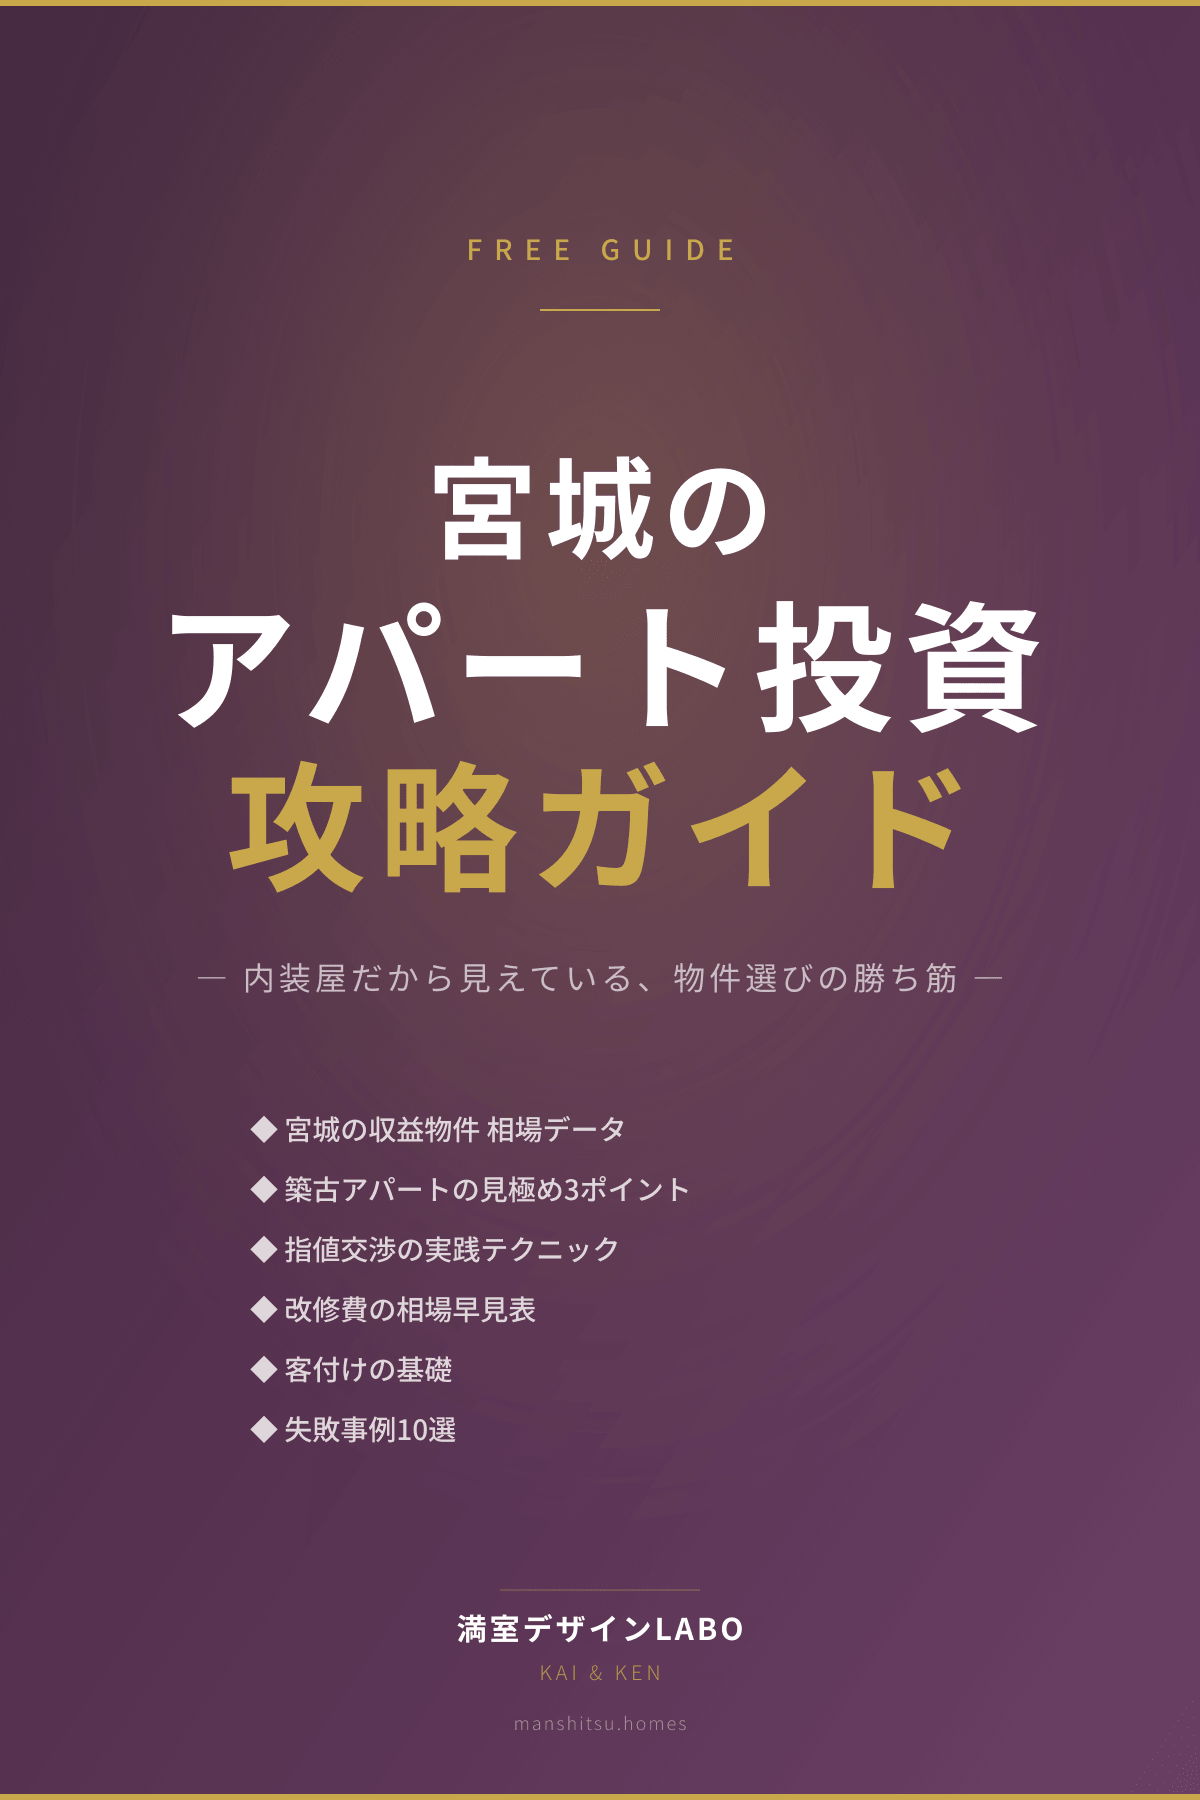
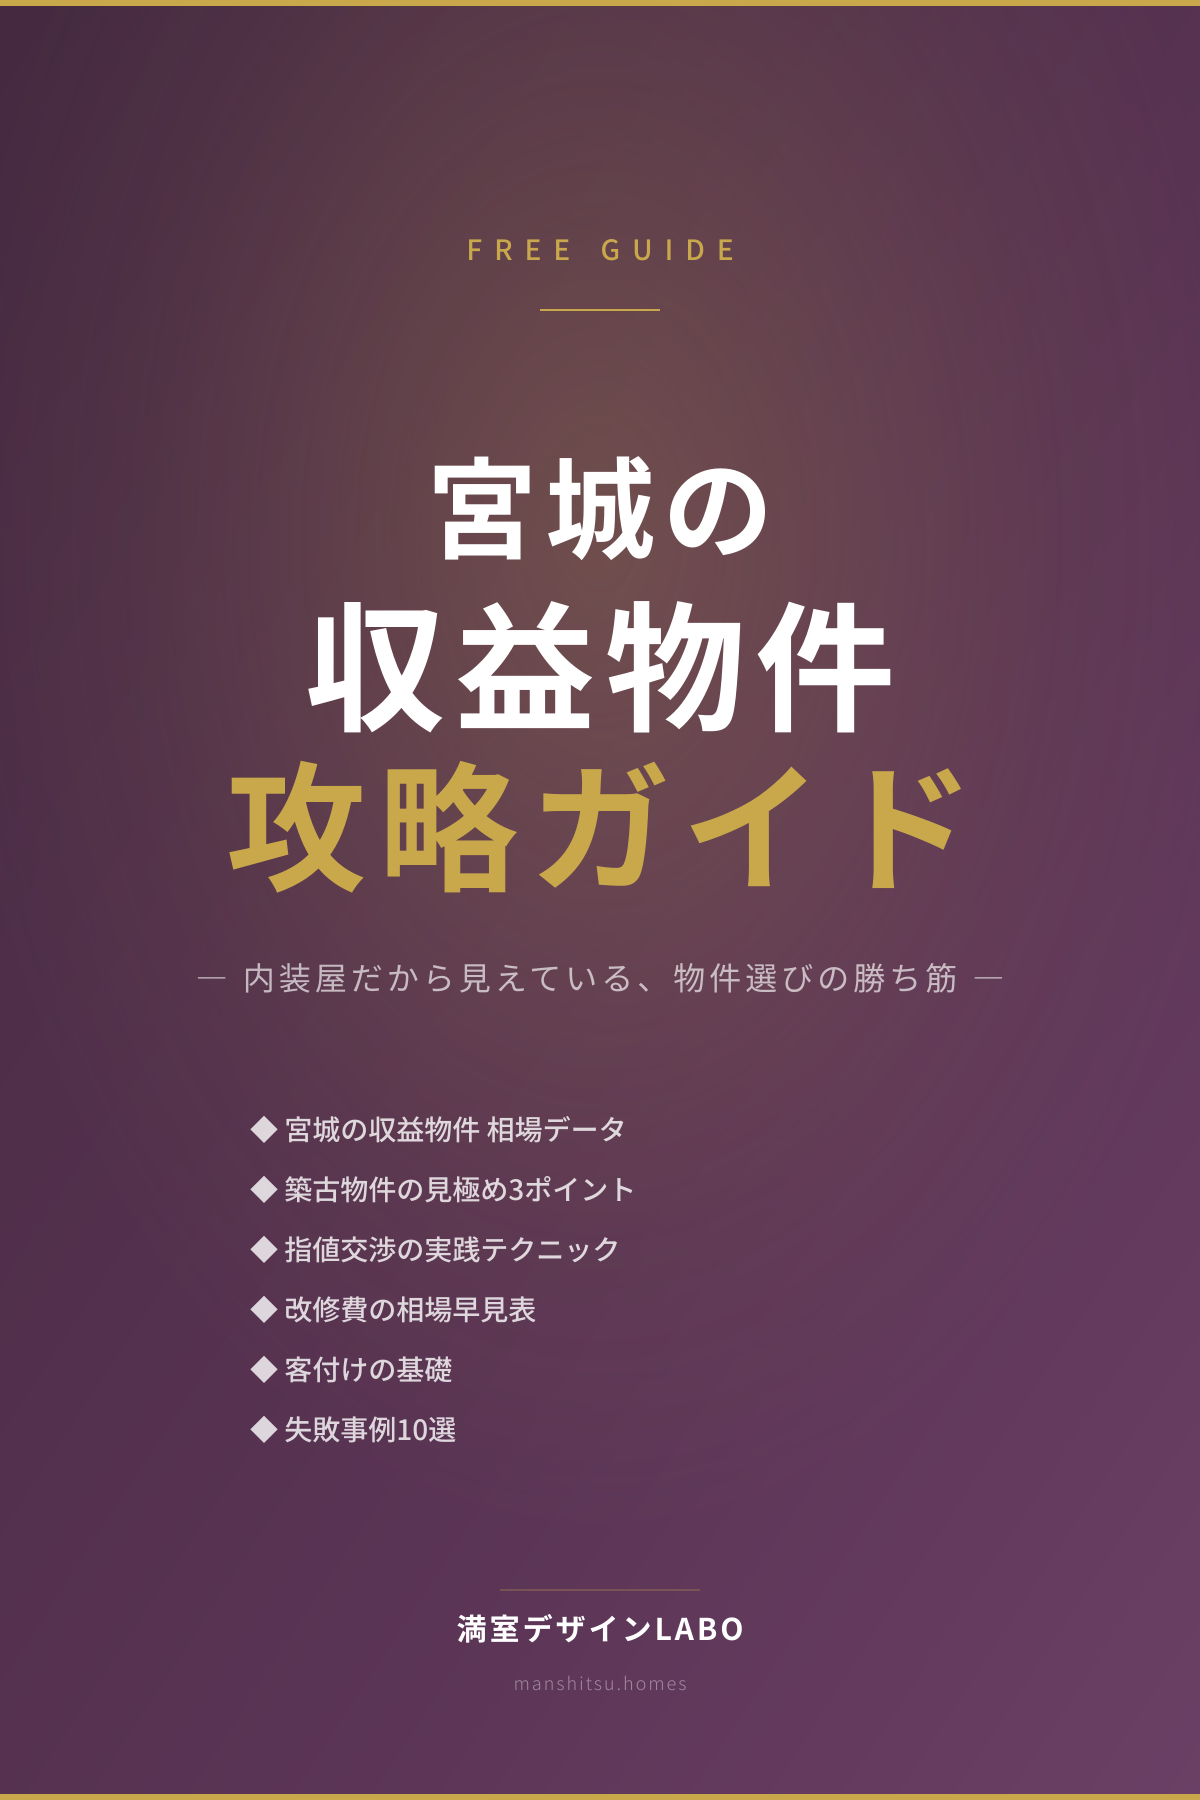
feat(guide): 収益物件ブランドへ主軸移行＋付録C「戸建・DIY使い分け」追加
- タイトル/目次/Ch見出しを「アパート投資→収益物件」で統一
- 付録C新設：戸建固有論点とDIY/プロの境界線（C-1〜C-4）
- FAQ（付録D）に DIY対応Q&A追加、戸建Q&A を主軸化に合わせ書き直し
- Ch.4事例4：大崎市築古戸建・DIY併用ケース追加
- 表紙/閉じから KAI & KEN 削除（LINE運用の伊藤名と整合）
- guide-cover.svg/png も同期
- マニュスクリプト（docs/guide-bukken-manuscript.md）も同期、v1.1

Changed region(s): [[0.1233, 0.3111, 0.8633, 0.4044], [0.2775, 0.6533, 0.5242, 0.6844], [0.4317, 0.9333, 0.4933, 0.9644]]

diff --git a/src/pages/GuidePage.tsx b/src/pages/GuidePage.tsx
@@ -6,7 +6,8 @@ import { JsonLd, breadcrumbSchema, faqSchema } from "../utils/jsonLd";
 const guideFaqs = [
   { q: "このガイドは本当に無料ですか？", a: "はい、完全無料です。弊社の本業は内装工事で、物件改修をご依頼いただいた段階で対価をいただきます。物件選びの段階で費用を請求することはありません。" },
   { q: "宮城県外でも参考になりますか？", a: "相場の数字は宮城県のものですが、築古物件の見極め方・指値交渉・改修費の考え方・客付け力チェックなどの方法論は地域を問わず使えます。福島・山形・岩手の近県の方からもご相談いただいています。" },
-  { q: "戸建投資にも使えますか？", a: "ガイド本体はアパート1棟投資が主軸ですが、物件選びの考え方の大半は戸建投資にも応用できます。戸建固有の論点（再販戦略・小規模融資・ファミリー客付けなど）は別記事で詳しく解説しています。" },
+  { q: "戸建投資にも使えますか？", a: "はい、むしろ戸建は私たちの主軸の一つです。一棟アパート／区分／築古戸建すべてで「物件探しから内装屋の目で見極める」という関わり方は同じです。戸建固有の論点（小規模融資・ファミリー客付け・実需出口）は付録Cと別記事で解説しています。" },
+  { q: "DIYで自分で改修したい部分があるのですが対応できますか？", a: "歓迎します。私たちは「全部任せてください」派ではなく、「ここだけプロに」という頼み方を推奨しています。水回り・電気・屋根外壁・構造など事故リスクが高い領域だけ弊社で請け、クロス・塗装・造作などDIY可能な領域はご自身で進めていただく形が、実は一番コストが下がって利回りも出やすいです。詳しくは付録Cをご覧ください。" },
   { q: "不動産投資の初心者ですが、理解できますか？", a: "業界用語は付録Bの用語集で解説しています。初学者でも読める難度で書いていますが、検索意図と検索意味の違いなど、初心者本では触れない実務知識も含んでいるため、初級〜中級者の橋渡しになります。" },
   { q: "他の不動産投資本との違いは何ですか？", a: "多くの投資本は仲介業や投資コンサルが書いており、物件売買で利益を出す立場の視点です。本ガイドは内装工事会社が物件売買では儲けない立場で書いているため、買わない方が良い物件・避けるべき業者についても率直に書いています。" },
   { q: "個別相談はできますか？", a: "LINE公式アカウント（@074uzmls）で個別相談を承っています。検討中の物件URLや写真を送っていただければ、客付け力チェック・改修費概算・実質利回りベースのレビューを無料でお返しします。" },
@@ -15,7 +16,7 @@ const guideFaqs = [
 const guideSchema = {
   "@context": "https://schema.org",
   "@type": "Article",
-  headline: "宮城のアパート投資 攻略ガイド",
+  headline: "宮城の収益物件 攻略ガイド",
   description: "宮城県の収益物件・中古アパート投資の攻略ガイド。相場データ・築古見極め3ポイント・指値交渉術・改修費単価・失敗事例10選まで内装屋視点で体系化。",
   image: "https://manshitsu.homes/images/hero-bg.webp",
   datePublished: "2026-04-17",
@@ -30,7 +31,7 @@ const guideSchema = {
 };
 
 /**
- * 宮城のアパート投資 攻略ガイド HTML版
+ * 宮城の収益物件 攻略ガイド HTML版
  *
  * 原稿: docs/guide-bukken-manuscript.md
  * 配布: /guide/bukken
@@ -38,7 +39,7 @@ const guideSchema = {
  */
 export default function GuidePage() {
   useEffect(() => {
-    document.title = "宮城のアパート投資 攻略ガイド｜満室デザインLABO";
+    document.title = "宮城の収益物件 攻略ガイド｜満室デザインLABO";
     const description = "宮城県の収益物件・中古アパート投資の攻略ガイド。相場データ・築古見極め3ポイント・指値交渉術・改修費単価・失敗事例10選まで内装屋視点で体系化。";
     const ogImage = "https://manshitsu.homes/images/og-guide.png";
 
@@ -49,10 +50,10 @@ export default function GuidePage() {
       const el = document.querySelector(selector);
       if (el) el.setAttribute("content", value);
     };
-    setMeta('meta[property="og:title"]', "宮城のアパート投資 攻略ガイド｜満室デザインLABO");
+    setMeta('meta[property="og:title"]', "宮城の収益物件 攻略ガイド｜満室デザインLABO");
     setMeta('meta[property="og:description"]', description);
     setMeta('meta[property="og:image"]', ogImage);
-    setMeta('meta[name="twitter:title"]', "宮城のアパート投資 攻略ガイド｜満室デザインLABO");
+    setMeta('meta[name="twitter:title"]', "宮城の収益物件 攻略ガイド｜満室デザインLABO");
     setMeta('meta[name="twitter:description"]', description);
     setMeta('meta[name="twitter:image"]', ogImage);
   }, []);
@@ -89,14 +90,14 @@ export default function GuidePage() {
         <hr className="cover-hr" />
         <h1 className="cover-title">
           <span className="cover-title-l1">宮城の</span>
-          <span className="cover-title-l2">アパート投資</span>
+          <span className="cover-title-l2">収益物件</span>
           <span className="cover-title-l3">攻略ガイド</span>
         </h1>
         <p className="cover-subtitle">— 内装屋だから見えている、物件選びの勝ち筋 —</p>
 
         <ul className="cover-chapters">
           <li>◆ 宮城の収益物件 相場データ</li>
-          <li>◆ 築古アパートの見極め3ポイント</li>
+          <li>◆ 築古物件の見極め3ポイント</li>
           <li>◆ 指値交渉の実践テクニック</li>
           <li>◆ 改修費の相場早見表</li>
           <li>◆ 客付けの基礎</li>
@@ -106,7 +107,6 @@ export default function GuidePage() {
         <div className="cover-footer">
           <hr className="cover-footer-hr" />
           <p className="cover-brand">満室デザインLABO</p>
-          <p className="cover-team">KAI &amp; KEN</p>
           <p className="cover-url">manshitsu.homes</p>
         </div>
         <div className="cover-accent-bottom" />
@@ -117,10 +117,10 @@ export default function GuidePage() {
         <div className="page-header"><span>CONTENTS</span></div>
         <h2 className="chapter-heading-toc">目次</h2>
         <ol className="toc-list">
-          <li><span className="toc-num">Ch.1</span><span>はじめに — なぜ今、宮城のアパート投資なのか</span></li>
+          <li><span className="toc-num">Ch.1</span><span>はじめに — なぜ今、宮城の収益物件投資なのか</span></li>
           <li><span className="toc-num">Ch.1-4</span><span>誰が書いているのか — 仲介業20年で気づいた構造の限界</span></li>
           <li><span className="toc-num">Ch.2</span><span>宮城の収益物件相場 — エリア別・築年別の実データ</span></li>
-          <li><span className="toc-num">Ch.3</span><span>築古アパートの見極め方 — 3つの必須チェック</span></li>
+          <li><span className="toc-num">Ch.3</span><span>築古物件の見極め方 — 3つの必須チェック</span></li>
           <li><span className="toc-num">Ch.4</span><span>指値交渉の実践テクニック — 想定問答と事例</span></li>
           <li><span className="toc-num">Ch.5</span><span>改修費の相場早見表 — 部屋タイプ別・単価公開</span></li>
           <li><span className="toc-num">Ch.6</span><span>客付けの基礎 — バーチャルステージング活用</span></li>
@@ -128,14 +128,15 @@ export default function GuidePage() {
           <li><span className="toc-num">Ch.8</span><span>まとめ — 次の1歩</span></li>
           <li><span className="toc-num">付録A</span><span>市町村別 平均利回りデータ</span></li>
           <li><span className="toc-num">付録B</span><span>用語集</span></li>
-          <li><span className="toc-num">付録C</span><span>よくある質問</span></li>
+          <li><span className="toc-num">付録C</span><span>戸建投資と"使い分け" — DIYとプロの境界線</span></li>
+          <li><span className="toc-num">付録D</span><span>よくある質問</span></li>
         </ol>
       </article>
 
       {/* ===== Ch.1 ===== */}
       <article className="page">
         <div className="page-header"><span>Ch.1 はじめに</span></div>
-        <h2 className="chapter-heading"><span className="chapter-no">Ch.1</span>はじめに — なぜ今、宮城のアパート投資なのか</h2>
+        <h2 className="chapter-heading"><span className="chapter-no">Ch.1</span>はじめに — なぜ今、宮城の収益物件投資なのか</h2>
 
         {/* Photo: hero */}
         <div className="photo-block">
@@ -148,7 +149,7 @@ export default function GuidePage() {
         <p>この立場から、次のことをお伝えしたい：</p>
         <blockquote className="quote">「物件選びで失敗すれば、どんなに良い内装をしても回らない」</blockquote>
         <p>これは、20年以上現場で見てきた実感です。どんなに塗装を綺麗にしても、立地が間違っていれば入居者は来ない。どんなに利回りが高い物件でも、躯体がダメなら改修費で利回りが消える。このガイドでは、<strong>物件を買う前に知っておくべきこと</strong>を、内装側から見た視点で体系化しました。</p>
-        <p style={{ fontSize: "0.9em", color: "#6a5a4a", marginTop: "12px" }}>※ 本ガイドはアパート1棟投資を主軸に解説しますが、考え方の大半は<strong>区分マンション・築古戸建</strong>にも応用できます。戸建投資の固有論点については別記事「<a href="/articles/chuko-kodate-toshi-miyagi">築古戸建の投資物件｜宮城</a>」をご参照ください。</p>
+        <p style={{ fontSize: "0.9em", color: "#6a5a4a", marginTop: "12px" }}>※ 本ガイドは<strong>一棟アパート・区分マンション・築古戸建</strong>すべてを「収益物件」として扱います。Ch.3〜Ch.5の見極め・改修費・客付けの考え方は共通です。戸建固有論点とDIY・プロの使い分けは<strong>付録C</strong>と別記事「<a href="/articles/chuko-kodate-toshi-miyagi">築古戸建の投資物件｜宮城</a>」で解説しています。</p>
 
         <h3 className="section-heading">1-2. なぜ「宮城」なのか</h3>
         <p>宮城県、特に仙台圏は以下の理由で<strong>個人アパート投資の好適地</strong>です：</p>
@@ -333,8 +334,8 @@ export default function GuidePage() {
 
       {/* ===== Ch.3 ===== */}
       <article className="page">
-        <div className="page-header"><span>Ch.3 築古アパートの見極め方</span></div>
-        <h2 className="chapter-heading"><span className="chapter-no">Ch.3</span>築古アパートの見極め方 — 3つの必須チェック</h2>
+        <div className="page-header"><span>Ch.3 築古物件の見極め方</span></div>
+        <h2 className="chapter-heading"><span className="chapter-no">Ch.3</span>築古物件の見極め方 — 3つの必須チェック</h2>
 
         {/* Photo: チェックリスト */}
         <div className="photo-block">
@@ -461,6 +462,16 @@ export default function GuidePage() {
             <li>売主希望：<strong>850万円</strong></li>
             <li>指摘：「近隣の類似物件が平均680〜780万円で成約」</li>
             <li>成約：<strong className="gold">780万円</strong>（-70万円）</li>
+          </ul>
+        </div>
+
+        <div className="jirei">
+          <p className="jirei-title">事例4：大崎市 築古戸建・築38年（DIY併用）</p>
+          <ul>
+            <li>売主希望：<strong>380万円</strong></li>
+            <li>指摘：「給湯器更新＋外壁塗装で150万円。屋根瓦一部割れで+30万円」</li>
+            <li>成約：<strong className="gold">250万円</strong>（-130万円）</li>
+            <li>購入後は水回りと屋根のみ弊社で施工、クロス・塗装は買主DIY。<strong>総改修費を圧縮して利回り15%超</strong>で満室稼働</li>
           </ul>
         </div>
       </article>
@@ -714,10 +725,47 @@ export default function GuidePage() {
         </dl>
       </article>
 
-      {/* ===== 付録C FAQ ===== */}
+      {/* ===== 付録C 戸建投資と使い分け ===== */}
       <article className="page">
-        <div className="page-header"><span>付録C よくある質問</span></div>
-        <h2 className="chapter-heading"><span className="chapter-no">付録C</span>よくある質問</h2>
+        <div className="page-header"><span>付録C 戸建投資と"使い分け"</span></div>
+        <h2 className="chapter-heading"><span className="chapter-no">付録C</span>戸建投資と"使い分け"について</h2>
+
+        <h3 className="section-heading">C-1. このガイドで「収益物件」と呼ぶ理由</h3>
+        <p>本ガイドは一棟アパートを主軸に書いていますが、私たちが実際に手伝っている物件は<strong>一棟アパート・区分・築古戸建</strong>まで幅があります。共通するのは「<strong>物件探しの段階から、内装屋の目で一緒に見極める</strong>」という関わり方です。Ch.3〜Ch.5の見極め・改修費・客付けの考え方は、戸建にもほぼそのまま応用できます。</p>
+
+        <h3 className="section-heading">C-2. 戸建投資ならではの論点</h3>
+        <ul>
+          <li><strong>小規模融資の使い分け</strong>：戸建は500〜1,500万円レンジが中心。住宅ローン残債のある個人でも、日本政策金融公庫やノンバンクでの小規模融資が組みやすい</li>
+          <li><strong>ファミリー客付けの特性</strong>：単身向けアパートより入居期間が長く（平均5〜8年）、退去コストが安定しやすい</li>
+          <li><strong>再販戦略（出口）の柔軟さ</strong>：賃貸で回した後、<strong>実需（マイホーム購入層）に売却</strong>できるのは戸建の強み。出口価格が落ちにくい</li>
+          <li><strong>寒冷地・築古特有の躯体リスク</strong>：戸建は屋根・基礎のダメージが直撃しやすい。築40年超はCh.3の躯体チェックを一段厳しく</li>
+        </ul>
+        <p style={{ fontSize: "0.9em", color: "#6a5a4a" }}>戸建投資の詳細は別記事「<a href="/articles/chuko-kodate-toshi-miyagi">築古戸建の投資物件｜宮城</a>」をご参照ください。</p>
+
+        <h3 className="section-heading">C-3. DIYで触って良い所／プロに任せる所</h3>
+        <p><strong>「DIYで全部自分でやりたい」という方</strong>も、私たちは歓迎しています。切り捨てません。ただ、<strong>「ここは絶対にプロに任せた方がいい」という境界線</strong>があります。これを最初に一緒に引くだけで、DIY失敗で余計に高くつく事故がほぼ防げます。</p>
+
+        <div className="structure">
+          <div className="structure-item">
+            <p className="structure-title">◆ DIYで触って良い領域</p>
+            <p className="structure-body">室内塗装（壁・天井）／クロス貼替（6畳程度まで）／クッションフロア貼替／棚・収納の造作／建具・金物の交換／庭木伐採・外構の簡易整備</p>
+          </div>
+          <div className="structure-item">
+            <p className="structure-title">◆ プロに任せた方が結局安くつく領域</p>
+            <p className="structure-body"><strong>水回り（給排水管・給湯器）</strong>：漏水事故で階下賠償数百万円／<strong>電気工事</strong>：電気工事士資格が必要・自前は違法かつ火災リスク／<strong>屋根・外壁の高所作業</strong>：墜落リスクと足場コストで結局割高／<strong>構造補強・耐震改修</strong>：計算根拠がないと確認申請が通らない／<strong>解体・廃棄物処理</strong>：マニフェスト未発行は不法投棄として罪に問われる</p>
+          </div>
+        </div>
+
+        <h3 className="section-heading">C-4. 「ここだけプロ」という頼み方</h3>
+        <p>私たちは<strong>「全部任せてください」派ではありません</strong>。</p>
+        <blockquote className="quote">「躯体と水回りだけ満室デザインLABOに。内装のクロスと塗装は自分でやります」 — これで全然OKです。むしろコストが下がって利回りが出やすくなります。</blockquote>
+        <p>LINEでご相談いただく際も「<strong>どこまで自分でやりたいか</strong>」を最初に教えてください。それに合わせた最小構成の見積もりをお出しします。</p>
+      </article>
+
+      {/* ===== 付録D FAQ ===== */}
+      <article className="page">
+        <div className="page-header"><span>付録D よくある質問</span></div>
+        <h2 className="chapter-heading"><span className="chapter-no">付録D</span>よくある質問</h2>
         <dl className="yougoshu">
           {guideFaqs.map((faq, i) => (
             <div key={i} style={{ marginBottom: "16px" }}>
@@ -728,7 +776,7 @@ export default function GuidePage() {
         </dl>
 
         <div className="closing">
-          <p>© 2026 満室デザインLABO ／ KAI &amp; KEN</p>
+          <p>© 2026 満室デザインLABO</p>
           <p className="closing-sub">宮城の収益物件を、物件探しから手伝う内装屋。</p>
           <p>manshitsu.homes ／ LINE: @074uzmls</p>
         </div>
